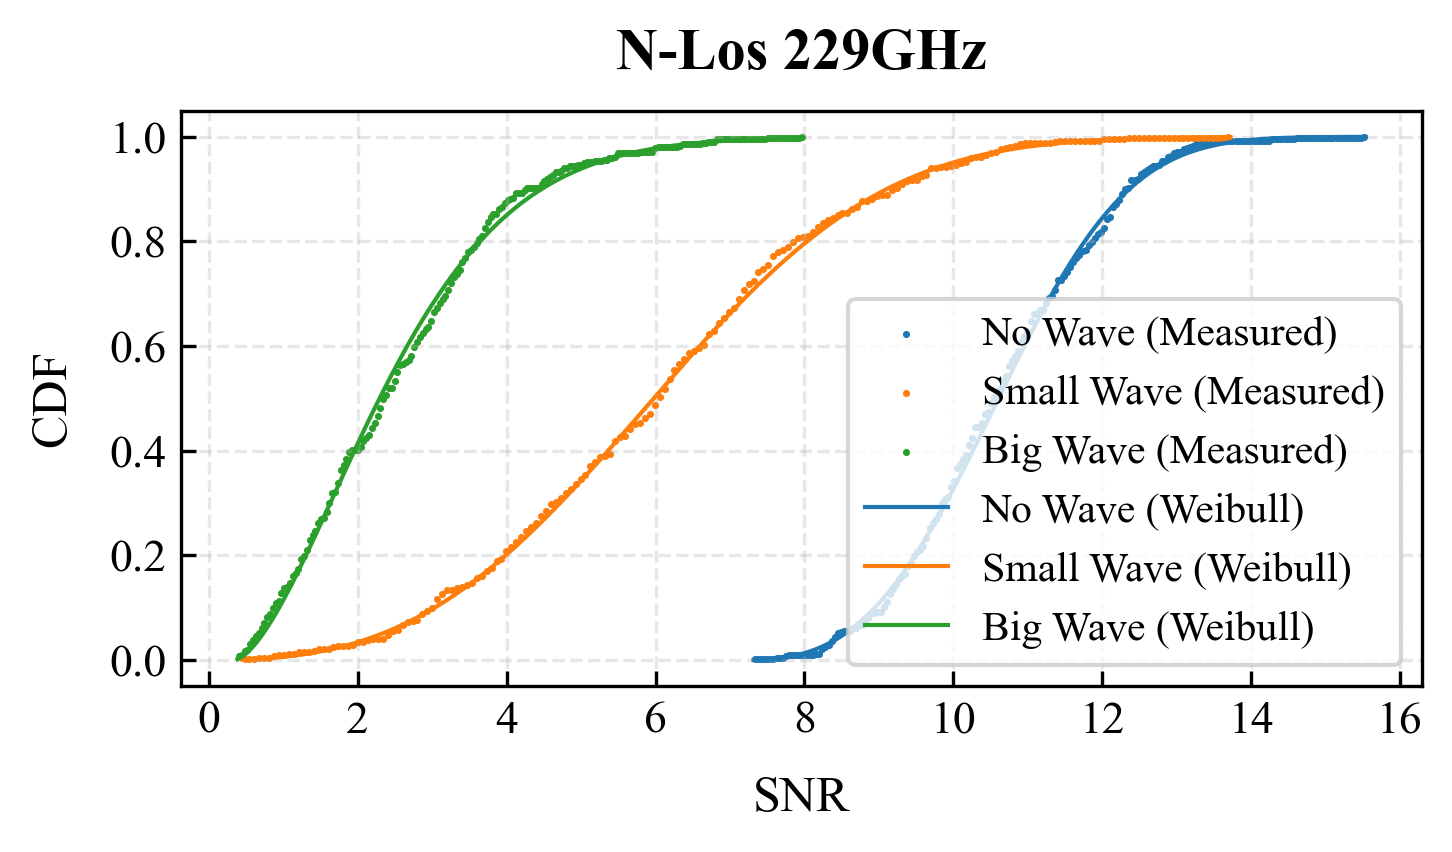
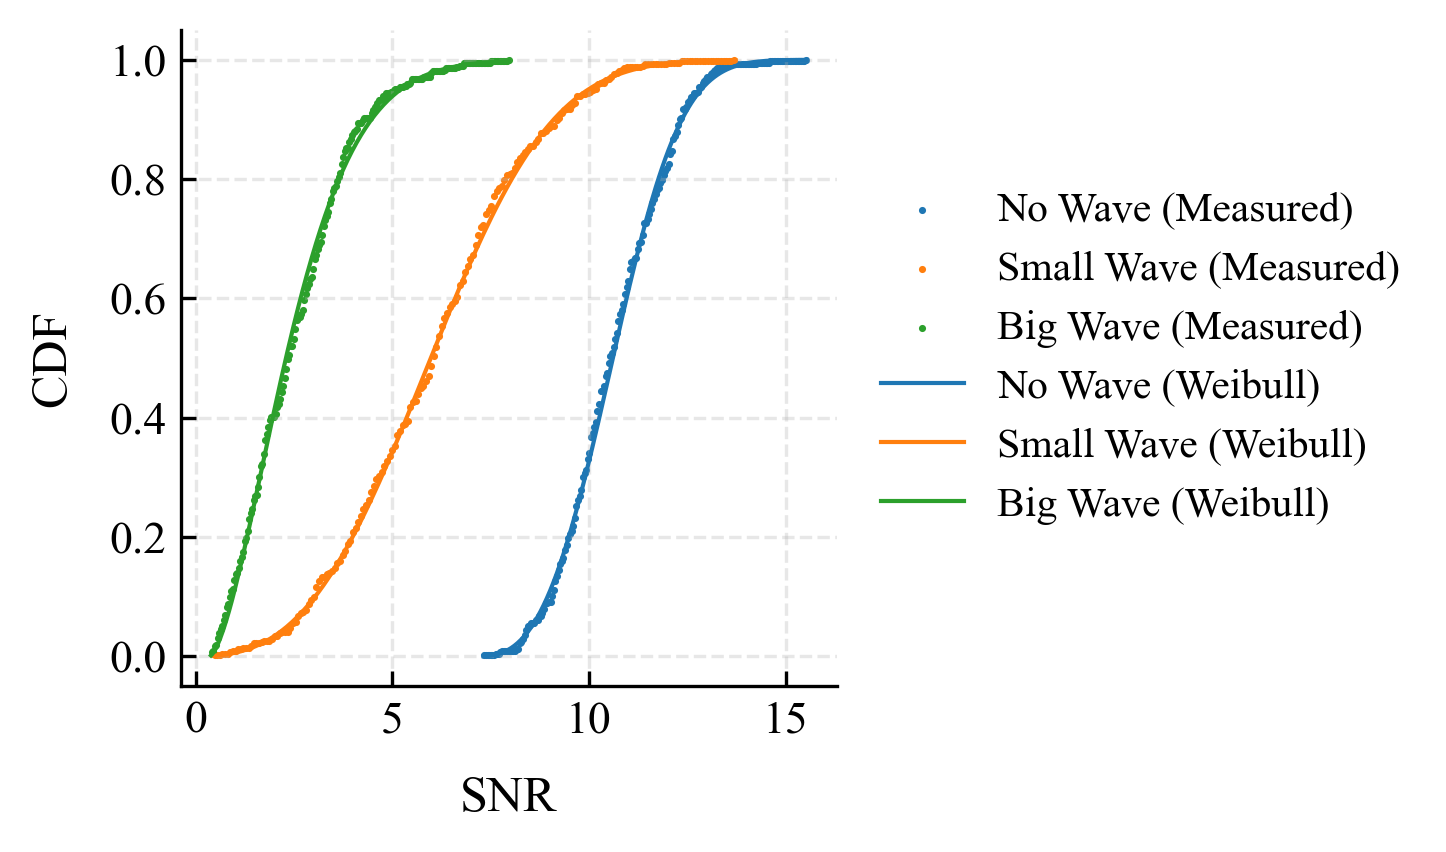
update

diff --git a/cdf.py b/cdf.py
@@ -49,6 +49,7 @@ def cdf_rice(data_list, save_path=None, title=None, noice_level=None):
     k_factor1 = (shape_param1 ** 2) / 2
     cdf_rician1 = rice.cdf(x_values1, *rice_params1)
     cdf_rayleigh1 = rayleigh.cdf(x_values1, *rayleigh.fit(power11))
+    print(f"title: {title}, weibull_param1: {weibull_min.fit(power11)}")
     cdf_weibull1 = weibull_min.cdf(x_values1, *weibull_min.fit(power11))
 
     x_values2 = np.linspace(min(power12), max(power12), 200)
@@ -57,6 +58,7 @@ def cdf_rice(data_list, save_path=None, title=None, noice_level=None):
     k_factor2 = (shape_param2 ** 2) / 2
     cdf_rician2 = rice.cdf(x_values2, *rice_params2)
     cdf_rayleigh2 = rayleigh.cdf(x_values2, *rayleigh.fit(power12))
+    print(f"title: {title}, weibull_param2: {weibull_min.fit(power12)}")
     cdf_weibull2 = weibull_min.cdf(x_values2, *weibull_min.fit(power12))
 
     x_values3 = np.linspace(min(power13), max(power13), 200)
@@ -65,6 +67,7 @@ def cdf_rice(data_list, save_path=None, title=None, noice_level=None):
     k_factor3 = (shape_param3 ** 2) / 2
     cdf_rician3 = rice.cdf(x_values3, *rice_params3)
     cdf_rayleigh3 = rayleigh.cdf(x_values3, *rayleigh.fit(power13))
+    print(f"title: {title}, weibull_param3: {weibull_min.fit(power13)}")
     cdf_weibull3 = weibull_min.cdf(x_values3, *weibull_min.fit(power13))
 
     # Plotting the empirical and fitted CDFs
@@ -124,9 +127,9 @@ def cdf_rice(data_list, save_path=None, title=None, noice_level=None):
     plt.xlabel('SNR', fontsize=12, labelpad=8)
     plt.ylabel('CDF', fontsize=12, labelpad=8)
     
-    if title is not None:
-        plt.title(title,
-                  pad=10, fontsize=14, fontweight='bold')
+    # if title is not None:
+    #     plt.title(title,
+    #               pad=10, fontsize=14, fontweight='bold')
         # plt.title(title + f"\nK1={k_factor1:.2f}, K2={k_factor2:.2f}, K3={k_factor3:.2f}", 
         #          pad=10, fontsize=14, fontweight='bold')
     
@@ -138,14 +141,23 @@ def cdf_rice(data_list, save_path=None, title=None, noice_level=None):
 
     # plt.xlim(0, 16)
     
-    # 优化图例位置和样式
-    plt.legend(loc='lower right',
-              frameon=True,
-              fontsize=10,
-              ncol=1)
-    
-    # 调整布局
-    plt.tight_layout()
+    # 去除四周边框
+    ax = plt.gca()
+    for spine in ['top', 'right']:
+        ax.spines[spine].set_visible(False)
+
+    # 图例放到图片外部右侧
+    handles, labels = ax.get_legend_handles_labels()
+    plt.legend(
+        handles, labels,
+        loc='center left',
+        bbox_to_anchor=(1.01, 0.5),
+        frameon=False,
+        fontsize=10,
+        ncol=1
+    )
+
+    plt.tight_layout()  # 右侧留出空间给图例
     
     # 保存图片
     if save_path:

diff --git a/swimming_pool.py b/swimming_pool.py
@@ -229,26 +229,45 @@ def plot_data_list(data_list, title, save_path=None):
                     label=f'{k} Trend')
     
     # 设置标题
-    plt.title(title, pad=10, fontsize=14, fontweight='bold')
+    # plt.title(title, pad=10, fontsize=14, fontweight='bold')
+    # ax1.text(
+    #     0, 1.02, title,
+    #     transform=ax1.transAxes,
+    #     fontsize=14,
+    #     fontweight='bold',
+    #     va='bottom',
+    #     ha='left'
+    # )
     
     # 设置轴标签，增大字体
     ax1.set_xlabel('Time (s)', fontsize=12, labelpad=8)
     ax1.set_ylabel('Amplitude (dBm)', fontsize=12, labelpad=8)
+
+    # ax1.set_xlim(0, 60)  # 设置 x 轴范围
+    # ax1.set_ylim(-20, -12)
     
     # 设置刻度，增大字体
     ax1.tick_params(axis='both', direction='in', labelsize=11)
     
-    # 添加网格线
-    ax1.grid(True, linestyle='--', alpha=0.3)
-    
-    # 优化图例位置和样式
-    ax1.legend(loc='upper right',
-              frameon=True,
-              fontsize=10,
-              ncol=1)
-    
-    # 调整布局
-    plt.tight_layout()
+    # 去除背景网格
+    # ax1.grid(True, linestyle='--', alpha=0.3)  # 删除或注释掉这一行
+
+    # 去除四周边框
+    for spine in ['top', 'right']:
+        ax1.spines[spine].set_visible(False)
+
+    # 图例放到图片外部右侧
+    lines1, labels1 = ax1.get_legend_handles_labels()
+    ax1.legend(
+        lines1, labels1,
+        loc='center left',
+        bbox_to_anchor=(1.01, 0.5),
+        frameon=False,
+        fontsize=10,
+        ncol=1
+    )
+
+    plt.tight_layout()  # 右侧留出空间给图例
     
     # 保存图片
     if save_path:
@@ -379,7 +398,7 @@ if __name__ == '__main__':
             "Big Wave": data_dict['nlos_high_big_wave'][229][150:550]
         }
     }
-    plot_data_list(nlos_high_list[220], "(b) N-Los 220GHz", os.path.join(pic_base, "nlos_high_220.png"))
+    plot_data_list(nlos_high_list[220], "(b)", os.path.join(pic_base, "nlos_high_220.png"))
     plot_data_list(nlos_high_list[225], "N-Los 225GHz", os.path.join(pic_base, "nlos_high_225.png"))
     plot_data_list(nlos_high_list[229], "N-Los 229GHz", os.path.join(pic_base, "nlos_high_229.png"))
     #
@@ -459,6 +478,6 @@ if __name__ == '__main__':
     }
     plot_data_list(nlos_low_list[140], "N-Los 140GHz", os.path.join(pic_base, "nlos_low_140.png"))
     plot_data_list(nlos_low_list[120], "N-Los 120GHz", os.path.join(pic_base, "nlos_low_120.png"))
-    plot_data_list(nlos_low_list[160], "(a) N-Los 160GHz", os.path.join(pic_base, "nlos_low_160.png"))
+    plot_data_list(nlos_low_list[160], "(a)", os.path.join(pic_base, "nlos_low_160.png"))
 
 

diff --git a/cdf_for_indoor_water.py b/cdf_for_indoor_water.py
@@ -49,7 +49,7 @@ def cdf_rice(data_list, save_path=None, title=None, noice_level=None):
     })
     
     # 设置图片尺寸为正方形
-    plt.rcParams['figure.figsize'] = [4, 4]  # 修改为正方形尺寸
+    plt.rcParams['figure.figsize'] = [5, 3]  # 修改为正方形尺寸
     plt.rcParams['figure.dpi'] = 300
     
     data1, data2, data3 = data_list
@@ -135,23 +135,29 @@ def cdf_rice(data_list, save_path=None, title=None, noice_level=None):
     plt.xlabel('SNR', fontsize=12, labelpad=8)
     plt.ylabel('CDF', fontsize=12, labelpad=8)
     
-    if title is not None:
-        plt.title(title, pad=10, fontsize=14, fontweight='bold')
+    # if title is not None:
+    #     plt.title(title, pad=10, fontsize=14, fontweight='bold')
     
     # 设置刻度，增大字体
     plt.tick_params(axis='both', direction='in', labelsize=11)
     
-    # 添加网格线
-    plt.grid(True, linestyle='--', alpha=0.3)
-    
-    # 优化图例位置和样式，改为右下角
-    plt.legend(loc='lower right',  # 改为 lower right
-              frameon=True,
-              fontsize=10,
-              ncol=1)
-    
-    # 调整布局，保持正方形比例
-    plt.tight_layout()
+    # 去除四周边框
+    ax = plt.gca()
+    for spine in ['top', 'right']:
+        ax.spines[spine].set_visible(False)
+
+    # 图例放到图片外部右侧
+    handles, labels = ax.get_legend_handles_labels()
+    plt.legend(
+        handles, labels,
+        loc='center left',
+        bbox_to_anchor=(1.01, 0.5),
+        frameon=False,
+        fontsize=10,
+        ncol=1
+    )
+
+    plt.tight_layout()  # 右侧留出空间给图例
     
     # 保存图片时保持正方形比例
     if save_path:

diff --git a/indoor_water_height.py b/indoor_water_height.py
@@ -200,19 +200,22 @@ def plot_data_list(data_list, title, save_path=None):
     # 设置刻度，增大字体
     ax1.tick_params(axis='both', direction='in', labelsize=11)
     
-    # 添加网格线
-    ax1.grid(True, linestyle='--', alpha=0.3)
-    
-    # 优化图例位置和样式
+    # 去除四周边框
+    for spine in ['top', 'right', 'left', 'bottom']:
+        ax1.spines[spine].set_visible(False)
+
+    # 图例放到图片外部右侧
     lines1, labels1 = ax1.get_legend_handles_labels()
-    ax1.legend(lines1, labels1,
-              loc='upper right',
-              frameon=True,
-              fontsize=10,
-              ncol=1)
-    
-    # 调整布局
-    plt.tight_layout()
+    ax1.legend(
+        lines1, labels1,
+        loc='center left',
+        bbox_to_anchor=(1.01, 0.5),
+        frameon=False,
+        fontsize=10,
+        ncol=1
+    )
+
+    plt.tight_layout(rect=[0, 0, 0.85, 1])  # 右侧留出空间给图例
     
     # 保存图片
     if save_path:
